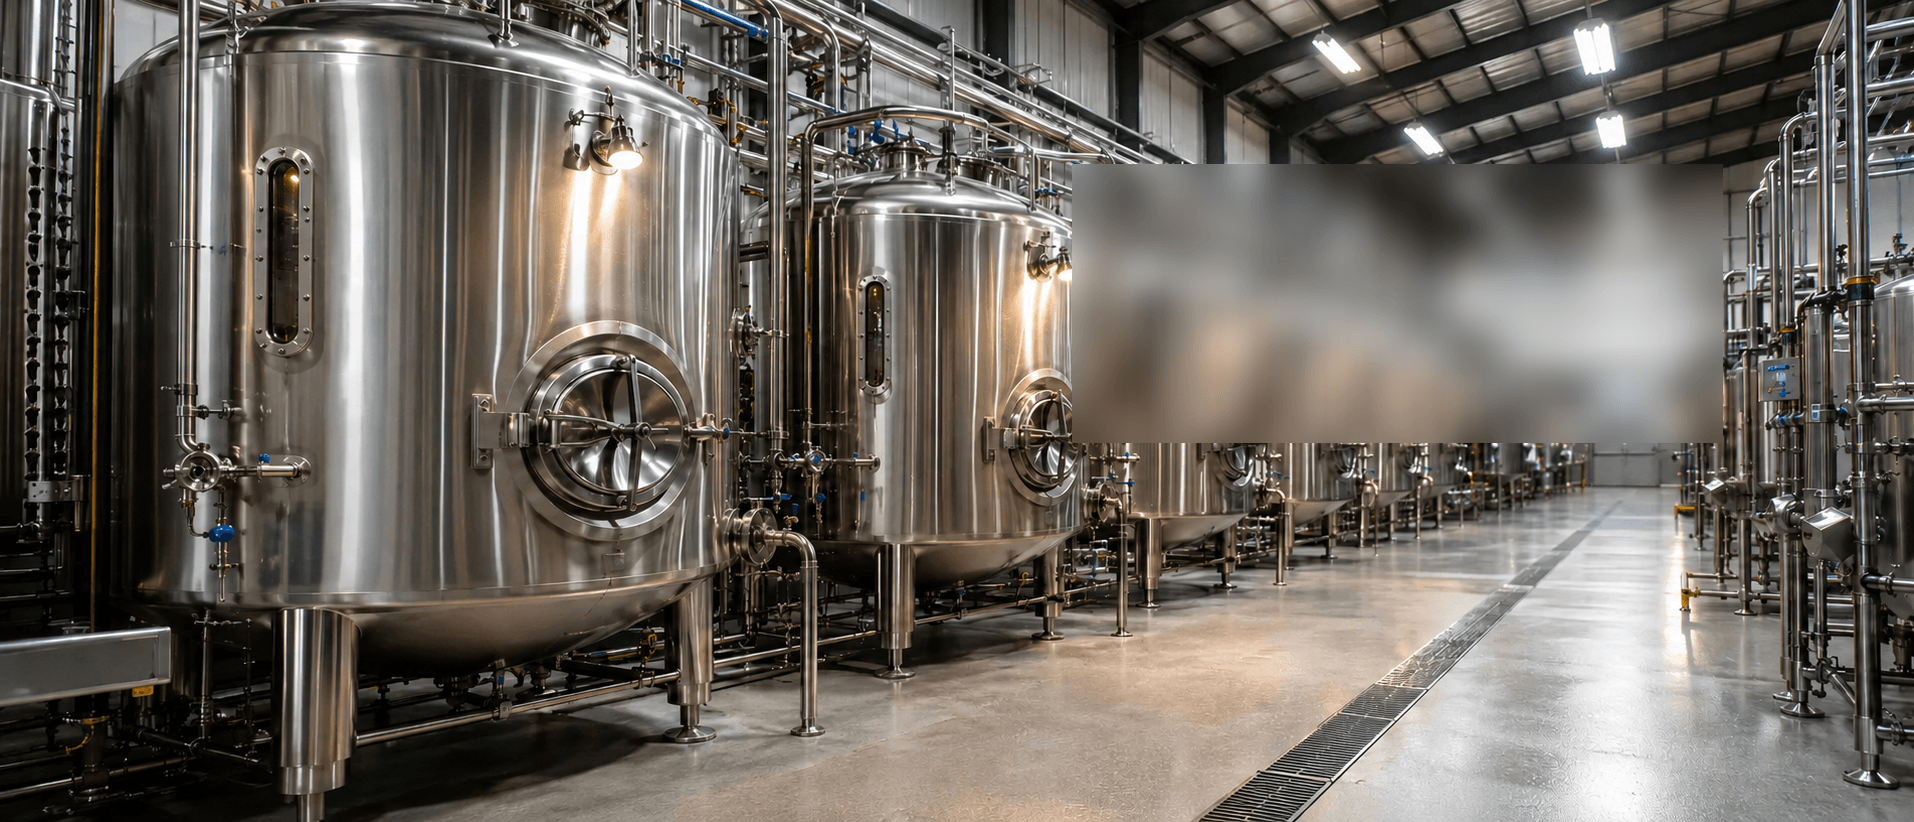
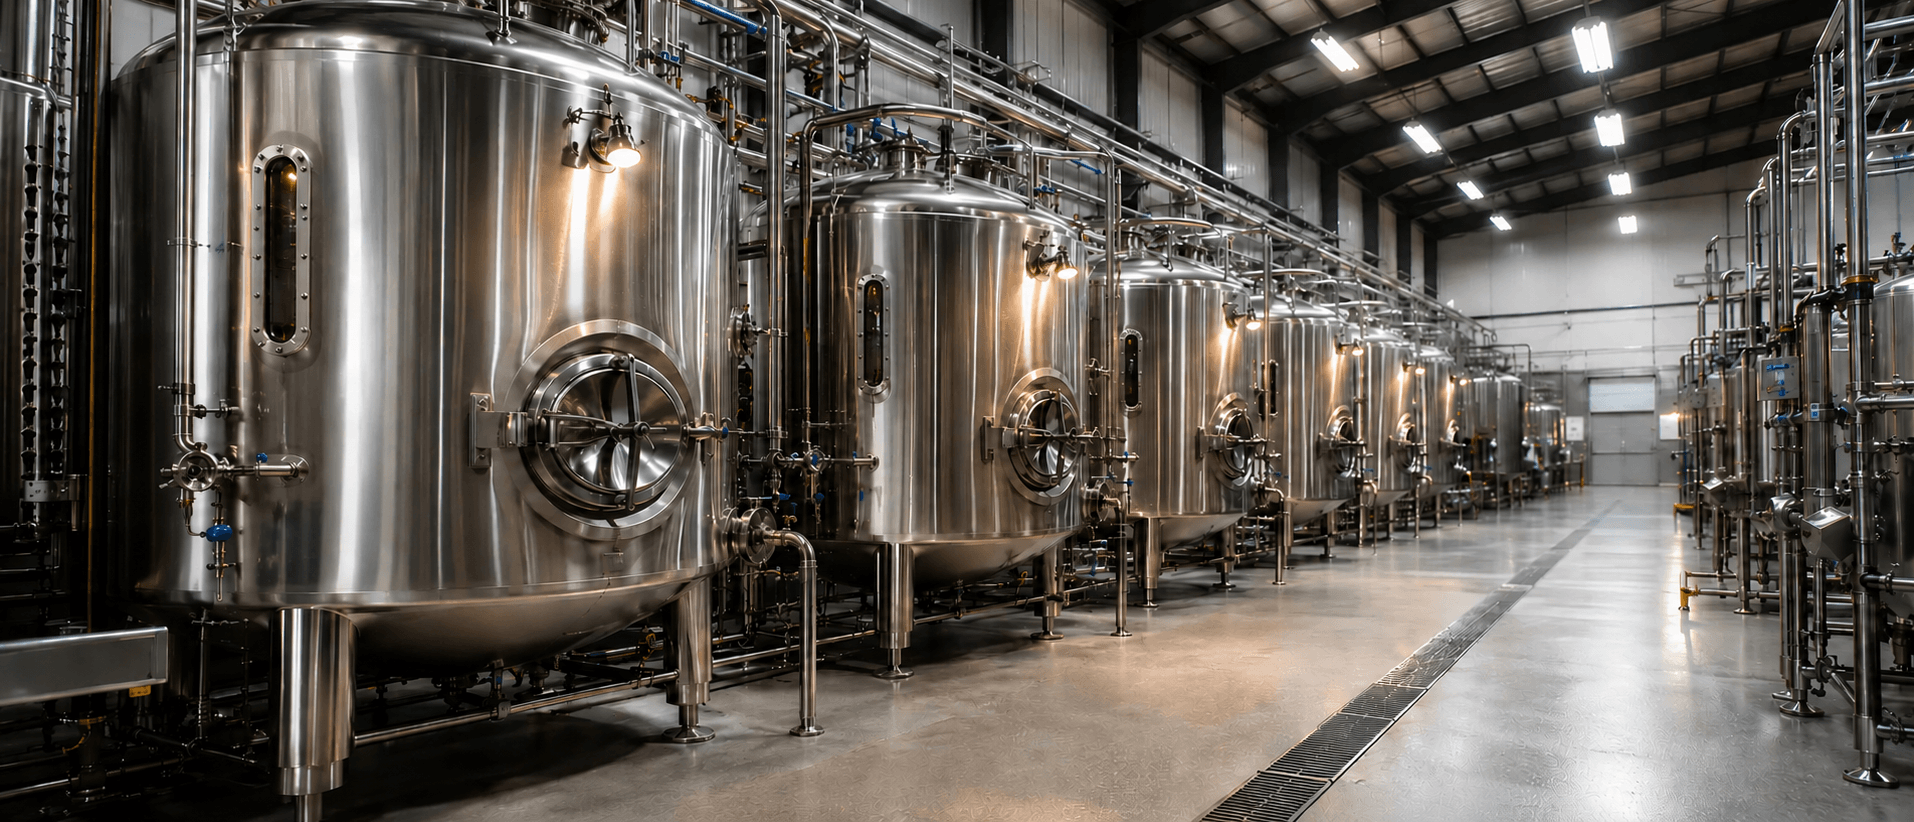
fix(images): text-free stainless hero + stainless preview card
Replace the stainless hero with the user-supplied clean image (no baked-in
wall text, so no blur needed) and re-point the /products/tanks/ stainless
preview card from the weld-bead macro to the tank hero, so all three tank
cards now show their actual product photo.

diff --git a/src/app/(marketing)/products/tanks/page.tsx b/src/app/(marketing)/products/tanks/page.tsx
@@ -44,8 +44,8 @@ const TANK_TYPES = [
     grades: "304 and 316L",
     capacity: "1 to 500 m³",
     best: "Food and beverage, dairy, pharmaceutical-adjacent",
-    imageSrc: "/images/home/tanks-weld-bead.png",
-    imageAlt: "Polished stainless tank weld bead detail",
+    imageSrc: "/images/products/tanks-stainless-steel-hero.png",
+    imageAlt: "A row of polished stainless steel process tanks in a plant",
   },
   {
     href: "/products/tanks/epoxy-lined/",
